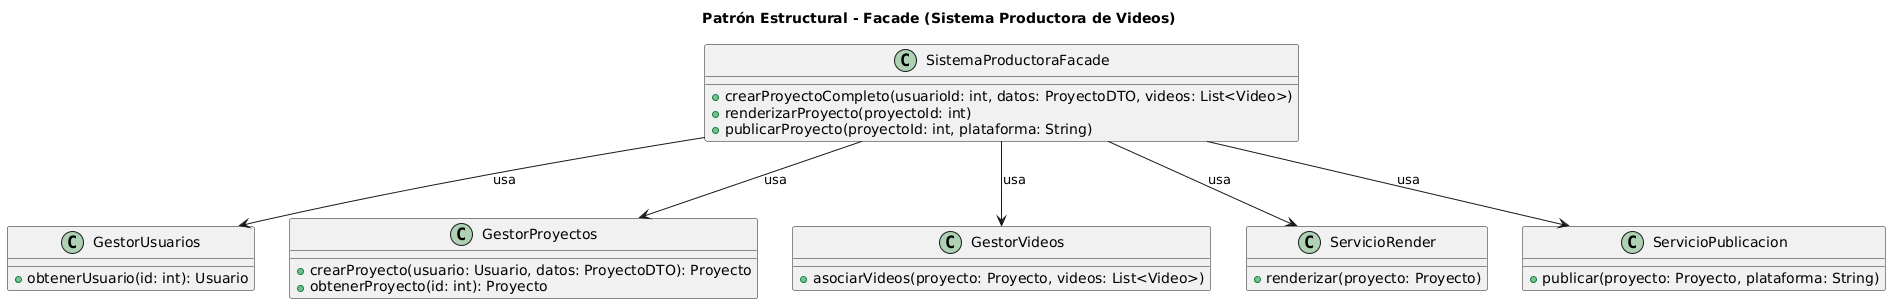
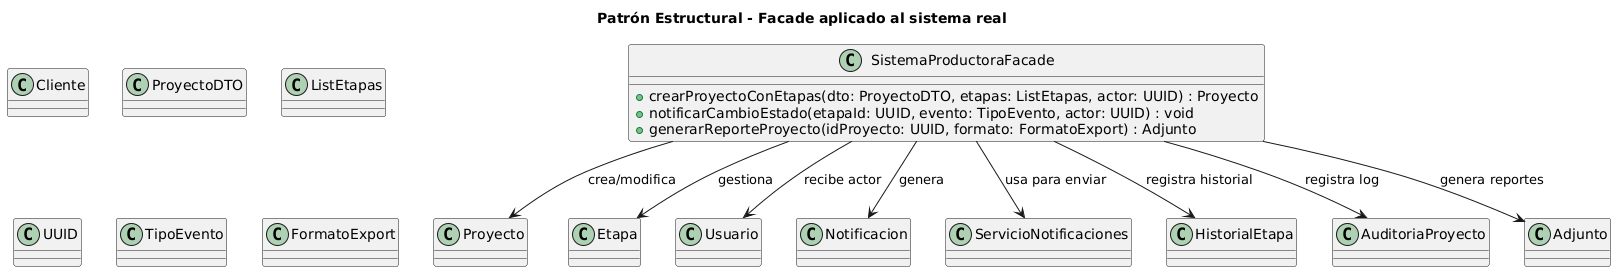
se realizaron correcciones  en el .puml y .png

diff --git a/anexos/patrones-diseno/patron-de-diseno-estructural.md b/anexos/patrones-diseno/patron-de-diseno-estructural.md
@@ -2,10 +2,10 @@
 
 ## Patrones de Diseño Estructural y su relación con SOLID
 
-*Los patrones estructurales permiten organizar la arquitectura interna de un sistema, reduciendo el acoplamiento entre clases, promoviendo la composición por sobre la herencia y permitiendo extender funcionalidades sin modificar código existente, alineándose fuertemente con OCP y DIP.
+Los patrones estructurales permiten organizar la arquitectura interna de un sistema, reduciendo el acoplamiento entre clases, promoviendo la composición por sobre la herencia y permitiendo extender funcionalidades sin modificar código existente, alineándose fuertemente con OCP y DIP.
 
 El patrón Facade proporciona una interfaz simplificada para un conjunto de subsistemas complejos.
-Permite ocultar la complejidad interna y exponer un único punto de acceso para las operaciones principales del sistema.*
+Permite ocultar la complejidad interna y exponer un único punto de acceso para las operaciones principales del sistema.
 
 ## Propósito y tipo del Patrón
 
@@ -36,22 +36,74 @@ SistemaProductoraFacade.
 
 ### Tipo:
 
-...
+Patrón estructural → Facade
+
+✔ Reduce complejidad
+
+✔ Desacopla subsistemas
+
+✔ Simplifica la interacción del controlador con el modelo
 
 ---
 
 ## Motivación
 
-*Aquí se detalla el problema en profundidad, explicando: ● Cómo funcionaba originalmente el sistema y las limitaciones detectadas. ● Qué clases estaban involucradas y cómo interactuaban. ● Por qué este diseño generaba problemas de mantenibilidad, escalabilidad o rigidez. ● Qué nuevas clases se incorporan con el uso del patrón seleccionado y cuál es su función. ● Cómo el patrón de diseño reorganiza la arquitectura para resolver el problema. (Agregar párrafos explicativos aquí.)*
+Originalmente, los casos de uso requerían que un controlador (por ejemplo, "Crear Proyecto") invocara múltiples clases del dominio. Un controlador podía terminar ejecutando código como:
+
+- Validar usuario → GestorUsuarios
+
+- Crear proyecto → GestorProyectos
+
+- Asociar videos → GestorVideos
+
+- Procesar el render → ServicioRender
+
+Esto generaba:
+
+❌ Controladores gigantes
+
+❌ Alto acoplamiento a varias clases concretas
+
+❌ Dificultad para modificar el flujo sin romper todo
+
+❌ Violación de DIP y SRP
+
+# Nueva solución con Facade 
+
+Se crea la clase:
+
+✔ SistemaProductoraFacade
+
+- Que ofrece métodos simples como:
+
+- crearProyectoCompleto(usuarioId, datosProyecto, listaVideos)
+
+- renderizarProyecto(proyectoId)
+
+- publicarProyecto(proyectoId, plataforma)
+
+La fachada coordina internamente todas las llamadas y simplifica la vida a los controladores.
 
 ## Estructura de Clases
 
-*No es necesario incluir todas las clases del proyecto en el diagrama, sino únicamente aquellas que participan directamente en la implementación del patrón. Esto permite mantener un diagrama claro, conciso y centrado en la arquitectura relevante para la aplicación del patrón. A continuación se presenta el diagrama UML del diseño aplicado:*
+![Diagrama Facade](../../diagramas/01-diagrama-clases/01-patron-estructural-facade.png)
 
-*IMG-DIAGRAMA*
 
-*Ver diagrama en tamaño completo.*
 
 ## Justificación Técnica de la Estructura de Clases
 
-*En esta sección se detalla la explicación técnica del diagrama UML presentado anteriormente. El objetivo es justificar las clases incluidas y su rol dentro de la solución implementada mediante el patrón creacional. (Completar con los siguientes puntos:) ● Descripción detallada de cada clase incluida en el diagrama , indicando: ○ Su responsabilidad dentro del patrón. ○ Su relación con otras clases. ○ Por qué es necesaria para aplicar correctamente el patrón. ● Explicación del flujo de creación de objetos: Describir cómo las clases colaboran entre sí para resolver el problema de creación. Mencionar qué clase inicia el flujo, cuál delega la responsabilidad y cuál instancia los objetos finales. (Agregar la explicación técnica correspondiente aquí.)*
+✔ SistemaProductoraFacade
+
+La fachada centraliza la funcionalidad del sistema.
+Responsabilidad: proporcionar métodos simples que ejecutan flujos completos.
+Beneficio: Desacoplamiento + SRP + DIP.
+
+✔ GestorUsuarios / GestorProyectos / GestorVideos
+
+Estas clases ya existían y mantienen su responsabilidad interna.
+La fachada las coordina sin alterarlas → OCP.
+
+✔ ServicioRender / ServicioPublicacion
+
+Servicios complejos que la UI no debe conocer ni instanciar directamente.
+La fachada los abstrae → DIP.
